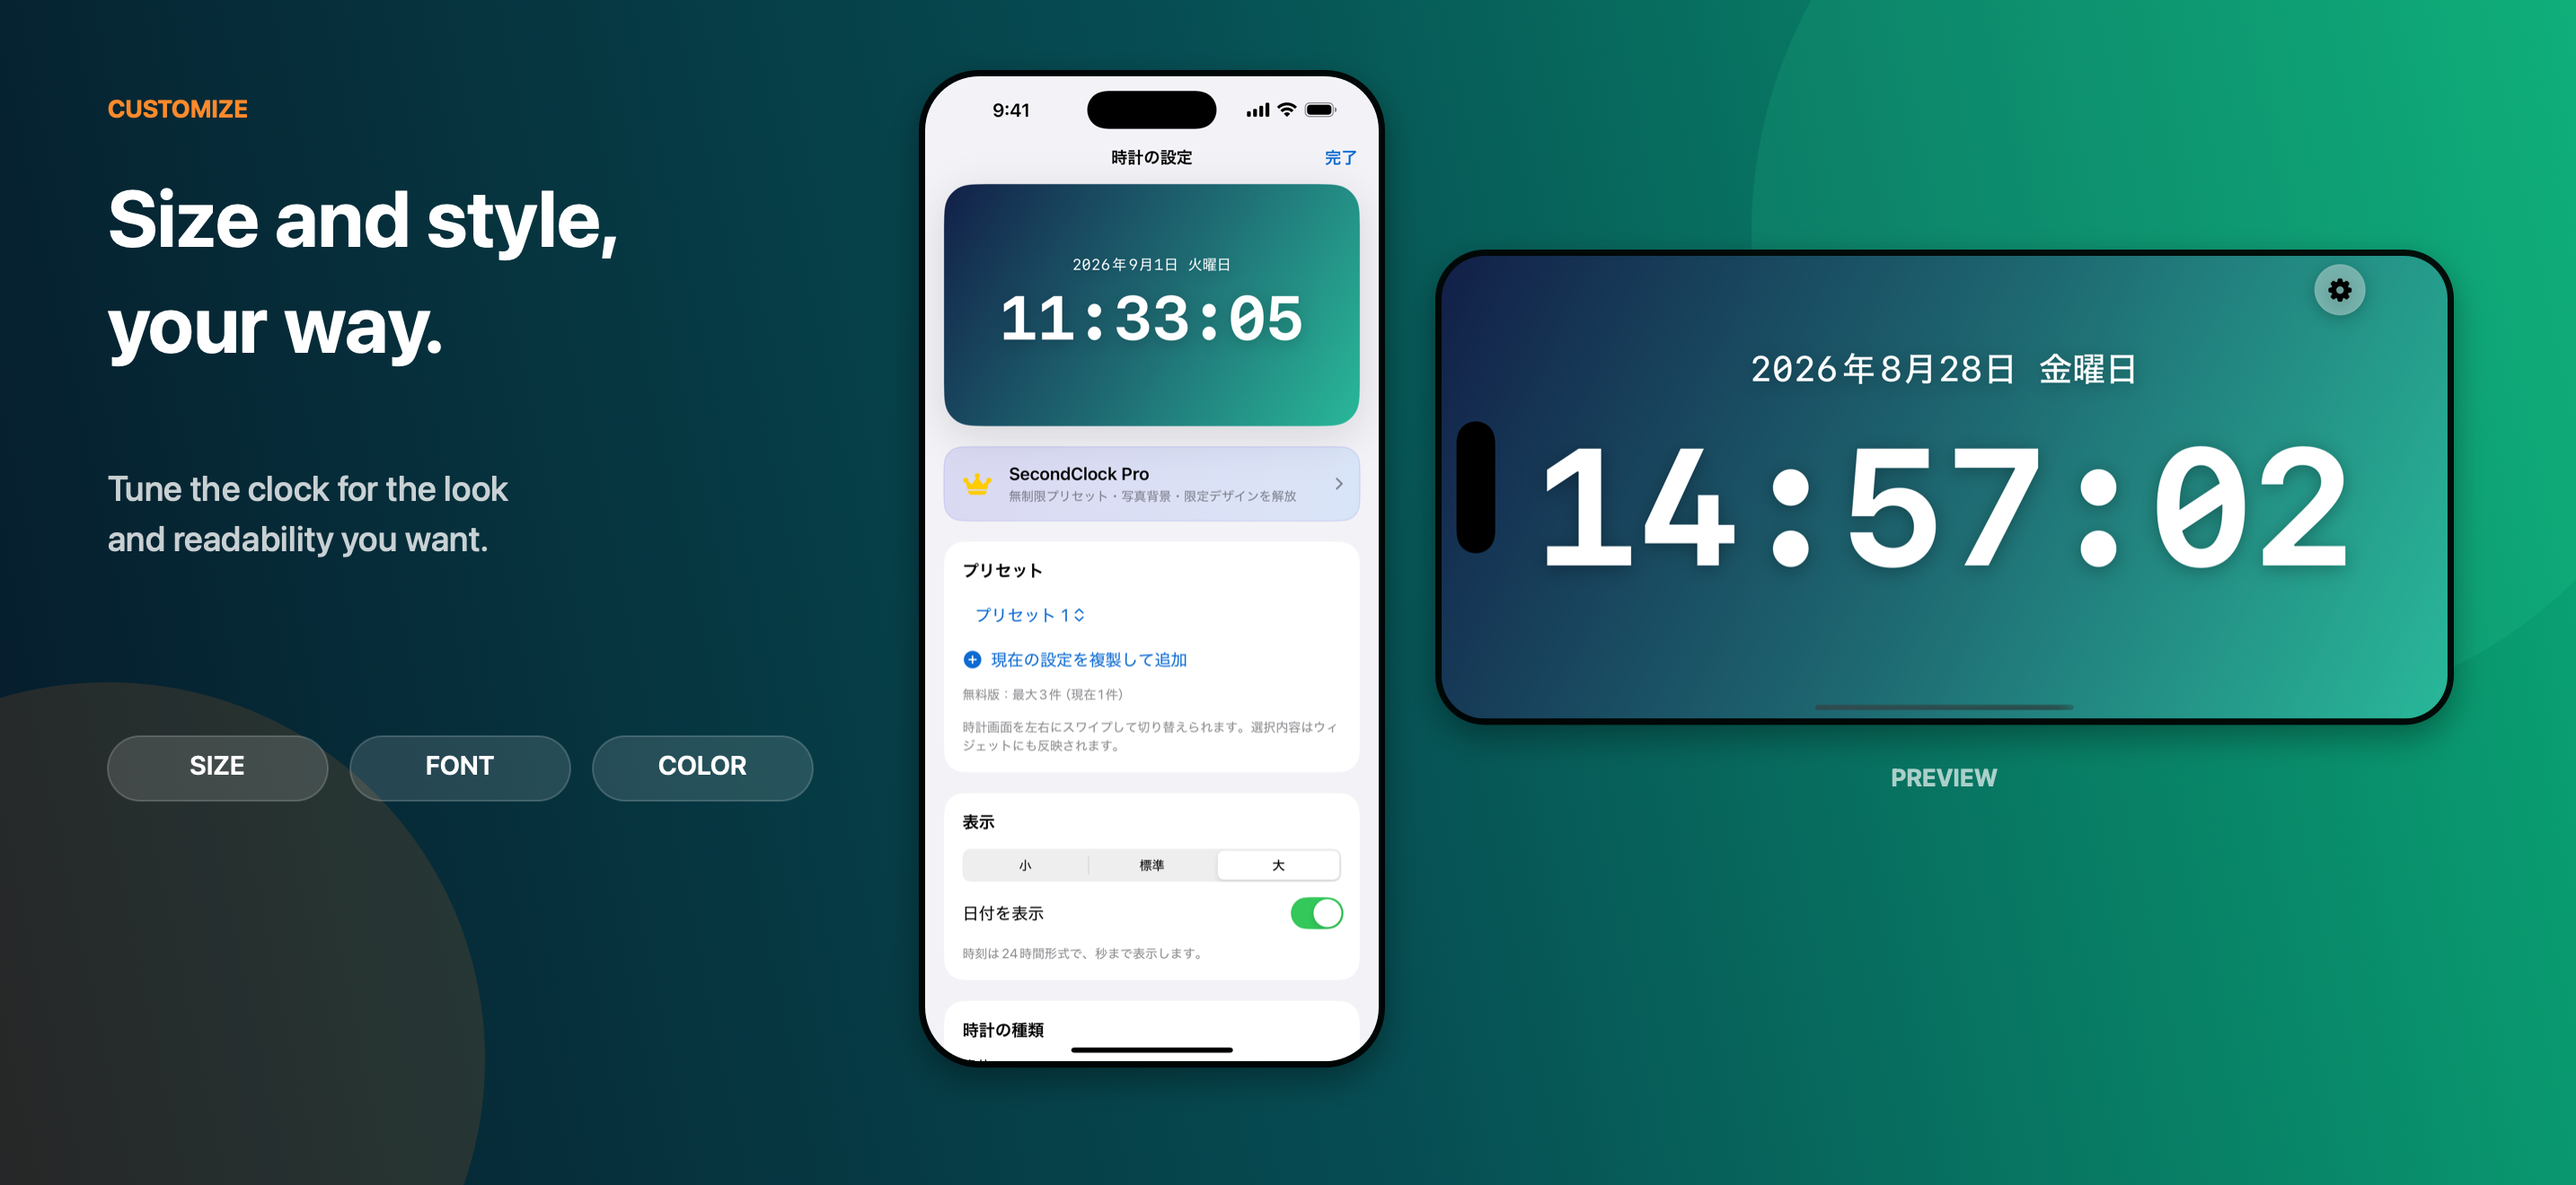
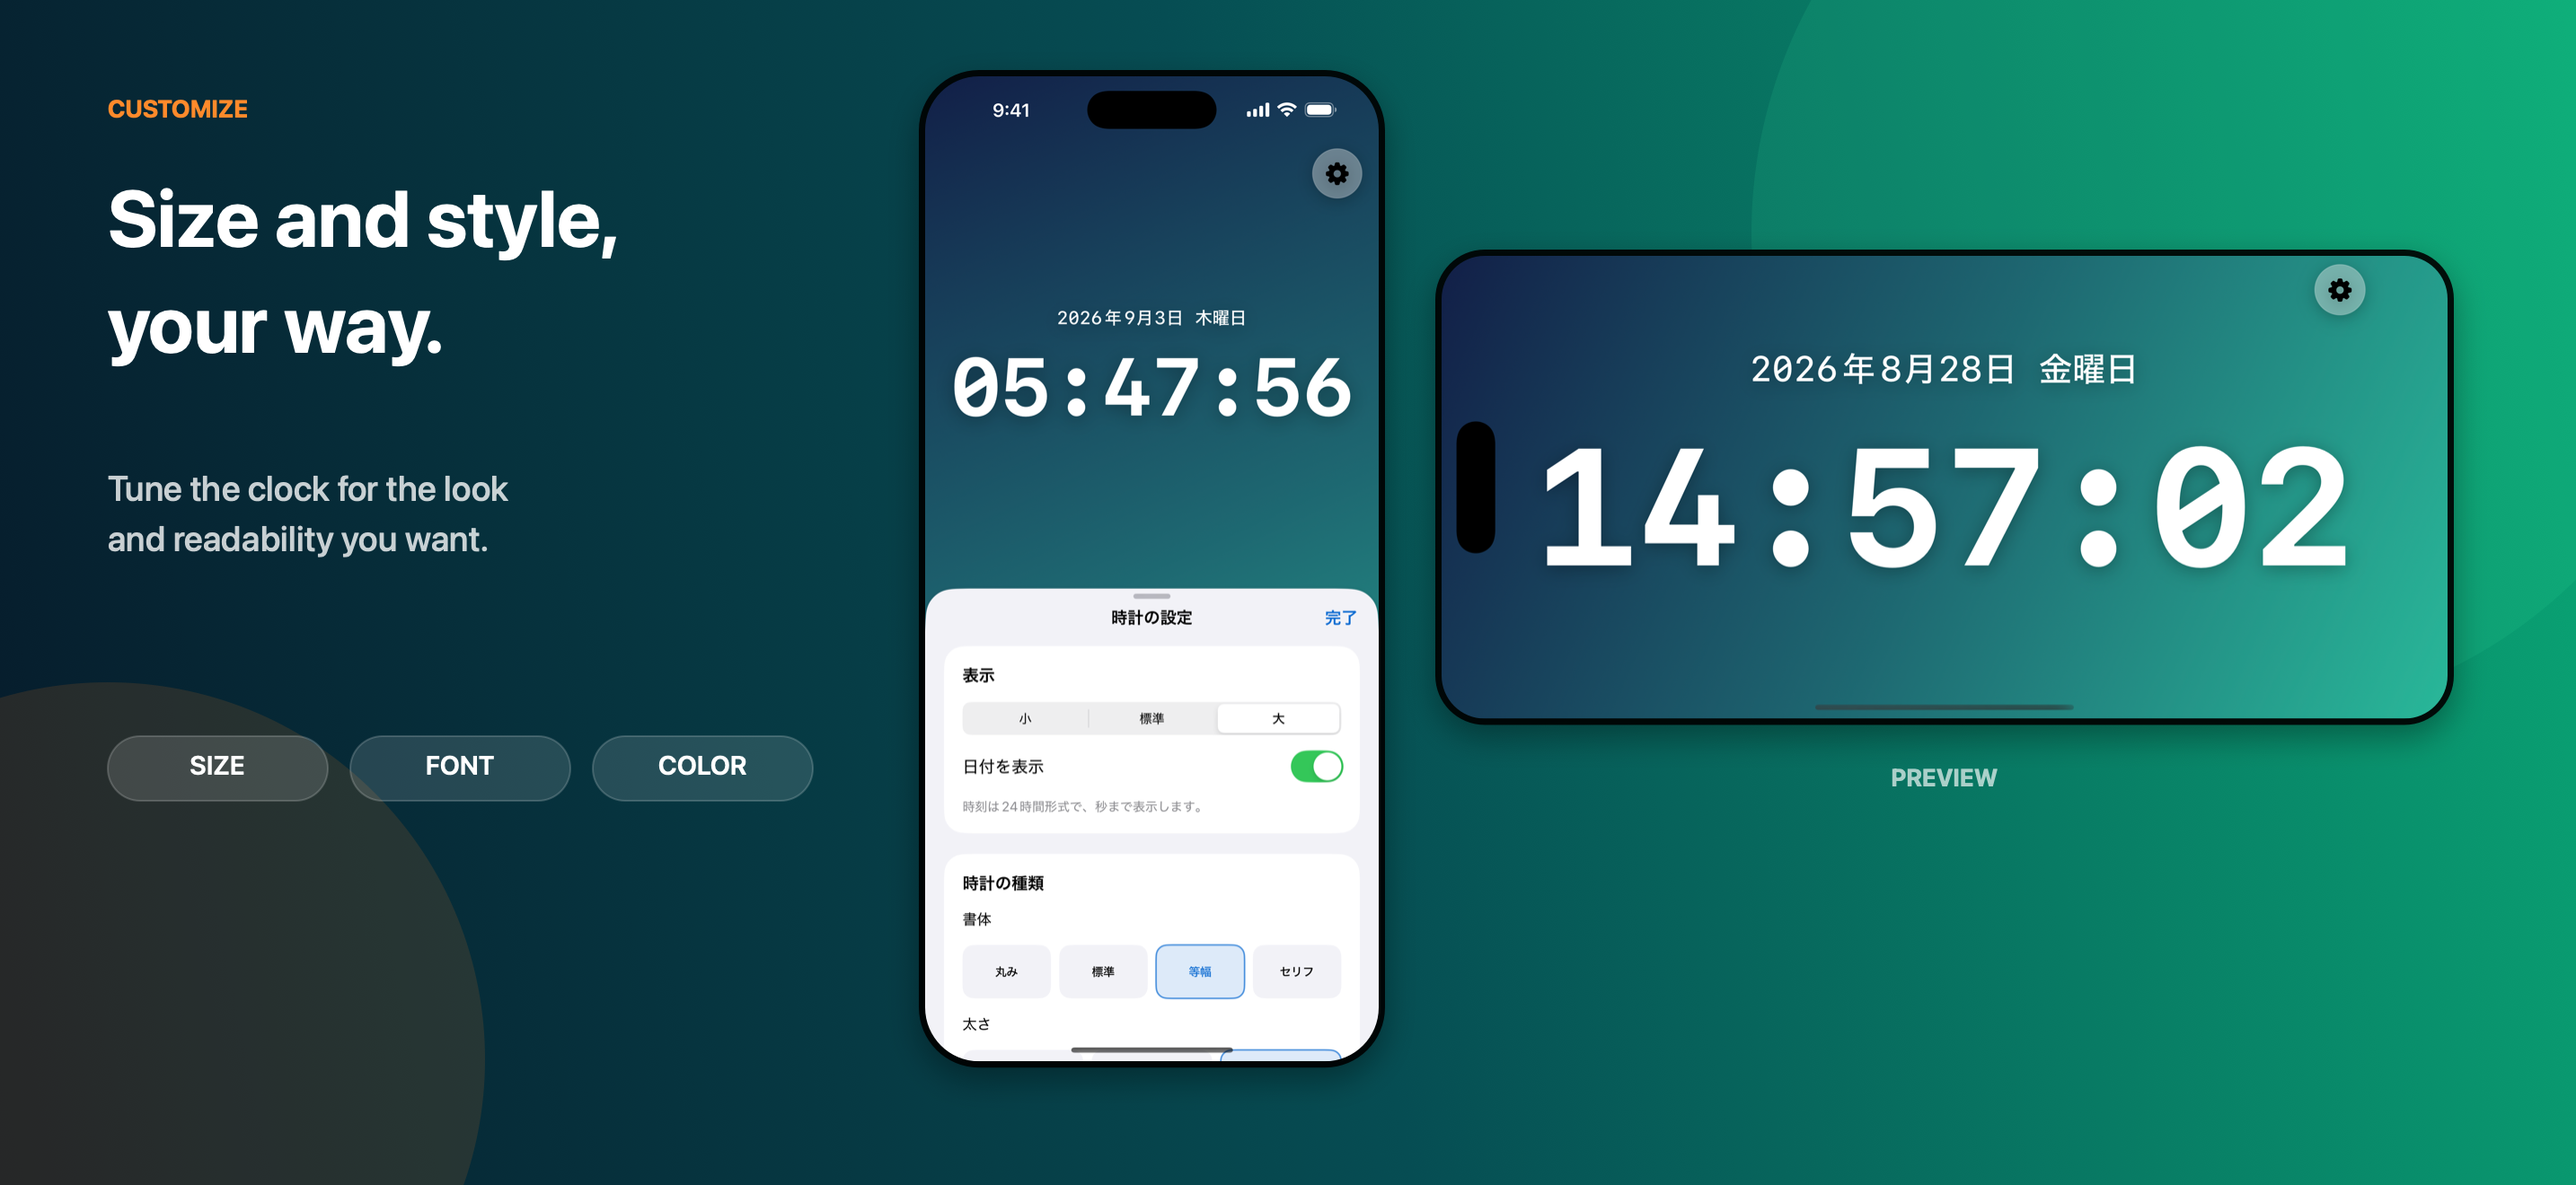
Show live clock above settings sheet

diff --git a/SecondClock/ContentView.swift b/SecondClock/ContentView.swift
@@ -13,59 +13,78 @@ struct ContentView: View {
         settingsStore.effectivePreferences(isProUnlocked: purchaseManager.isProUnlocked)
     }
 
+    init(initiallyShowsSettings: Bool = false) {
+        _showsSettings = State(initialValue: initiallyShowsSettings)
+    }
+
     var body: some View {
-        ZStack {
-            ClockBackgroundView(preferences: effectivePreferences)
-                .id(settingsStore.backgroundImageRevision)
-                .id(settingsStore.activePresetID)
-                .ignoresSafeArea()
+        GeometryReader { geometry in
+            ZStack {
+                ClockBackgroundView(preferences: effectivePreferences)
+                    .id(settingsStore.backgroundImageRevision)
+                    .id(settingsStore.activePresetID)
+                    .ignoresSafeArea()
 
-            FullScreenClockView(preferences: effectivePreferences)
-                .id(settingsStore.activePresetID)
+                FullScreenClockView(preferences: effectivePreferences)
+                    .id(settingsStore.activePresetID)
+                    .scaleEffect(
+                        showsSettings && geometry.size.width > geometry.size.height
+                            ? 0.8
+                            : 1
+                    )
+                    .offset(y: showsSettings ? -geometry.size.height * 0.24 : 0)
 
-            VStack {
-                HStack {
-                    Spacer()
+                VStack {
+                    HStack {
+                        Spacer()
 
-                    Button {
-                        showsSettings = true
-                    } label: {
-                        Image(systemName: "gearshape.fill")
-                            .font(.system(size: 21, weight: .semibold))
-                            .frame(width: 48, height: 48)
-                            .background(.ultraThinMaterial, in: Circle())
-                            .overlay {
-                                Circle()
-                                    .stroke(.white.opacity(0.18), lineWidth: 1)
-                            }
-                            .shadow(color: .black.opacity(0.25), radius: 8, y: 3)
+                        Button {
+                            showsSettings = true
+                        } label: {
+                            Image(systemName: "gearshape.fill")
+                                .font(.system(size: 21, weight: .semibold))
+                                .frame(width: 48, height: 48)
+                                .background(.ultraThinMaterial, in: Circle())
+                                .overlay {
+                                    Circle()
+                                        .stroke(.white.opacity(0.18), lineWidth: 1)
+                                }
+                                .shadow(color: .black.opacity(0.25), radius: 8, y: 3)
+                        }
+                        .buttonStyle(.plain)
+                        .foregroundStyle(.primary)
+                        .accessibilityLabel("時計の設定を開く")
+                        .accessibilityHint("時計を見ながら表示サイズや背景を変更できます")
                     }
-                    .buttonStyle(.plain)
-                    .foregroundStyle(.primary)
-                    .accessibilityLabel("時計の設定を開く")
-                    .accessibilityHint("表示サイズや背景を変更できます")
+
+                    Spacer()
                 }
+                .padding(.horizontal, 16)
+                .padding(.top, 8)
 
-                Spacer()
-            }
-            .padding(.horizontal, 16)
-            .padding(.top, 8)
-
-            if settingsStore.presets.count > 1 {
-                presetIndicator
+                if settingsStore.presets.count > 1 && !showsSettings {
+                    presetIndicator
+                }
             }
         }
         .contentShape(Rectangle())
         .simultaneousGesture(presetSwipeGesture)
         .frame(maxWidth: .infinity, maxHeight: .infinity)
         .animation(.easeInOut(duration: 0.22), value: settingsStore.activePresetID)
+        .animation(.easeInOut(duration: 0.28), value: showsSettings)
         .statusBarHidden(!showsSettings)
         .persistentSystemOverlays(showsSettings ? .visible : .hidden)
         .sheet(isPresented: $showsSettings) {
             ClockSettingsView()
                 .environmentObject(settingsStore)
                 .environmentObject(purchaseManager)
+                .presentationDetents([.fraction(0.5)])
                 .presentationDragIndicator(.visible)
+                .presentationBackgroundInteraction(
+                    .enabled(upThrough: .fraction(0.5))
+                )
+                .presentationContentInteraction(.scrolls)
+                .presentationCornerRadius(28)
         }
         .onChange(of: scenePhase) { _, newPhase in
             guard newPhase == .active else { return }
@@ -245,15 +264,6 @@ struct ClockSettingsView: View {
         NavigationStack {
             ScrollView {
                 VStack(spacing: 20) {
-                    ClockPreviewCard(
-                        preferences: effectivePreferences,
-                        imageRevision: settingsStore.backgroundImageRevision
-                    )
-
-                    proStatusCard
-
-                    presetSection
-
                     if shouldShowAppGroupWarning {
                         AppGroupWarning()
                     }
@@ -261,6 +271,8 @@ struct ClockSettingsView: View {
                     displaySection
                     typographySection
                     backgroundSection
+                    presetSection
+                    proStatusCard
                     informationSection
                     resetSection
                 }
@@ -710,78 +722,6 @@ struct ClockSettingsView: View {
             errorMessage = error.localizedDescription
         }
         selectedPhoto = nil
-    }
-}
-
-private struct ClockPreviewCard: View {
-    @Environment(\.verticalSizeClass) private var verticalSizeClass
-    let preferences: ClockPreferences
-    let imageRevision: UUID
-
-    private var usesCompactLayout: Bool {
-        verticalSizeClass == .compact
-    }
-
-    var body: some View {
-        ZStack {
-            ClockBackgroundView(preferences: preferences)
-                .id(imageRevision)
-
-            VStack(spacing: usesCompactLayout ? 4 : 7) {
-                if preferences.showDate {
-                    TimelineView(.periodic(from: .now, by: 60)) { context in
-                        Text(
-                            context.date,
-                            format: .dateTime
-                                .year()
-                                .month(.wide)
-                                .day()
-                                .weekday(.wide)
-                        )
-                        .font(
-                            .system(
-                                usesCompactLayout ? .caption : .subheadline,
-                                design: preferences.fontDesign.swiftUIFontDesign
-                            )
-                        )
-                        .lineLimit(1)
-                        .minimumScaleFactor(0.75)
-                    }
-                }
-
-                TimelineView(.periodic(from: .now, by: 1)) { context in
-                    Text(
-                        context.date,
-                        format: .dateTime
-                            .hour(.twoDigits(amPM: .omitted))
-                            .minute(.twoDigits)
-                            .second(.twoDigits)
-                    )
-                    .font(
-                        .system(
-                            size: (usesCompactLayout ? 36 : 50) * preferences.displaySize.scale,
-                            weight: preferences.fontWeight.swiftUIFontWeight,
-                            design: preferences.fontDesign.swiftUIFontDesign
-                        )
-                    )
-                    .monospacedDigit()
-                    .minimumScaleFactor(0.5)
-                    .lineLimit(1)
-                }
-            }
-            .foregroundStyle(preferences.textColor.color)
-            .padding(usesCompactLayout ? 14 : 22)
-            .shadow(color: .black.opacity(0.22), radius: 8, y: 3)
-        }
-        .frame(maxWidth: usesCompactLayout ? 520 : .infinity)
-        .aspectRatio(usesCompactLayout ? 2.4 : 1.72, contentMode: .fit)
-        .clipShape(RoundedRectangle(cornerRadius: 28, style: .continuous))
-        .overlay {
-            RoundedRectangle(cornerRadius: 28, style: .continuous)
-                .stroke(.white.opacity(0.12), lineWidth: 1)
-        }
-        .shadow(color: .black.opacity(0.12), radius: 20, y: 10)
-        .padding(.top, 4)
     }
 }
 

diff --git a/AppStore/Site/app/page.tsx b/AppStore/Site/app/page.tsx
@@ -34,7 +34,7 @@ export default function Home() {
         <article>
           <p className="featureNumber">02</p>
           <h2>空間に合わせて選べる。</h2>
-          <p>サイズ、書体、色、背景をプリセットとして保存。時計画面を左右にスワイプして、すぐに切り替えられます。</p>
+          <p>時計を上半分に表示したまま、サイズ、書体、色、背景を調整。完成したデザインはプリセットとして保存できます。</p>
         </article>
         <article>
           <p className="featureNumber">03</p>

diff --git a/SecondClock/AppStoreScreenshotMode.swift b/SecondClock/AppStoreScreenshotMode.swift
@@ -10,7 +10,7 @@ struct AppStoreScreenshotRootView: View {
         Group {
             switch mode {
             case "settings", "settings-landscape":
-                ClockSettingsView()
+                ContentView(initiallyShowsSettings: true)
 
             case "paywall", "paywall-landscape":
                 ProPaywallView()

diff --git a/AppStore/Metadata/ja-JP.md b/AppStore/Metadata/ja-JP.md
@@ -27,6 +27,7 @@ SecondClockは、現在時刻を秒まで大きく表示する、シンプルで
 ・時・分・秒を見やすく全画面表示
 ・縦向きと横向きの両方に対応
 ・時計サイズを3段階から選択
+・実際の時計を見ながらデザインを変更
 ・日付表示のオン・オフ
 ・書体と文字の太さを変更
 ・システム、単色、グラデーション、写真背景

diff --git a/README.md b/README.md
@@ -7,6 +7,7 @@
 - 起動直後に現在時刻を秒まで全画面表示
 - 縦向き・横向きの両方に対応
 - 右上の歯車ボタンから表示設定を変更
+- 実際の時計を見ながら操作できる下半分の設定シート
 - 時計の表示サイズを3段階から選択
 - ホーム画面の小・中サイズウィジェット
 - ロック画面の横長ウィジェット
